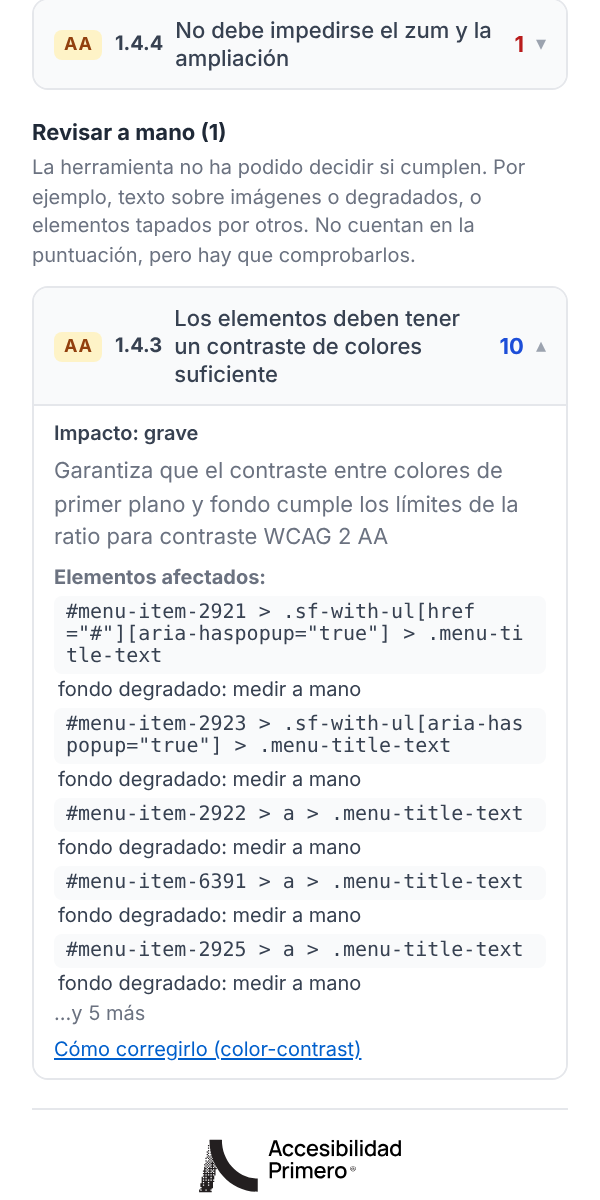
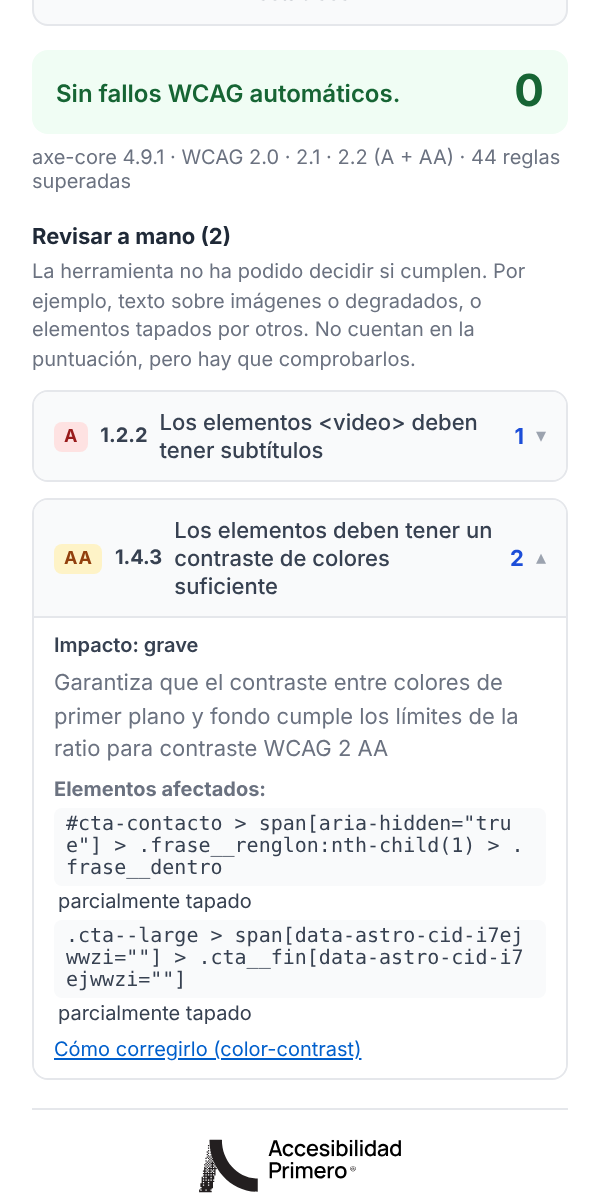
Caso A11y Primero: la extensión evaluando esta misma web
- Las capturas pasan de offvalencia.com a accesibilidadprimero.eu (una
  «metaweb», Johnny): no se enseñan los fallos de la web de un cliente.
- Home: «Ver A11y Primero» ya no sale con ↗ ni abre otra pestaña; la flecha
  la decide el destino.

Claude-Session: https://claude.ai/code/session_01QtCBXvaV7Hhax1zN7yRFgV

diff --git a/arte/LEEME.md b/arte/LEEME.md
@@ -152,7 +152,7 @@ y se comprueba el md5 contra el original (AGENTS.md §2, punto 7).
 
 | Archivo | Qué es | Origen |
 |---|---|---|
-| `hero.jpg` | La extensión abierta sobre offvalencia.com, pestaña Resumen (1600 × 1000) | Capturada de la extensión v2.0.0 a @2x |
+| `hero.jpg` | La extensión abierta sobre esta web, pestaña Resumen (1600 × 1000) | Capturada de la extensión v2.0.0 a @2x |
 | `panel-wcag.png` | El panel solo, pestaña WCAG (600 × 1200, @2x de 300) | Ídem |
 | `wcag.jpg` · `ver-como.jpg` | Fallos marcados en la página y simulación de baja visión (2560 × 1600) | Ídem |
 
